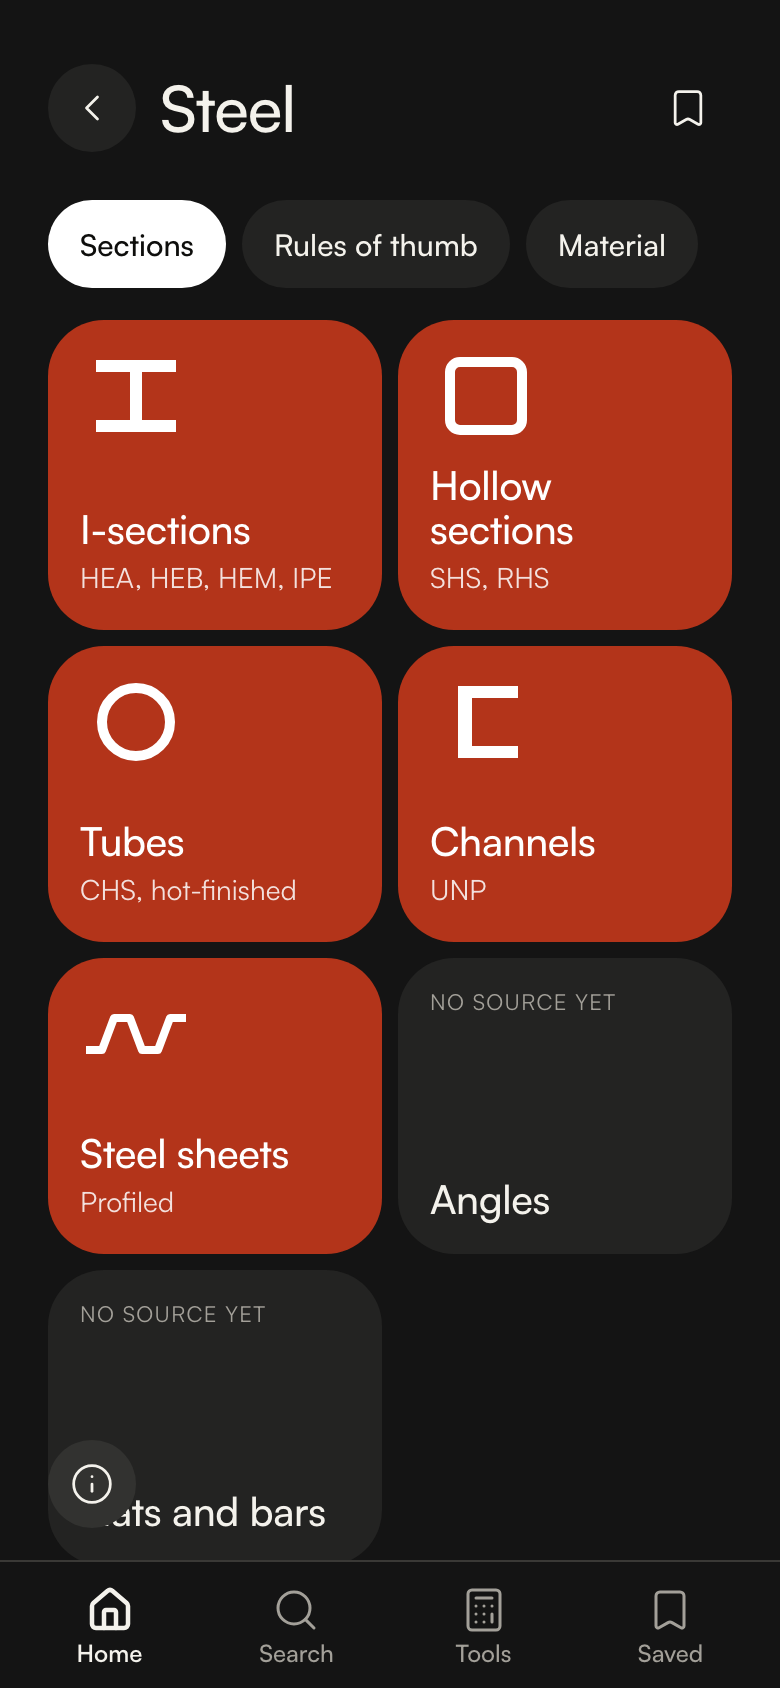
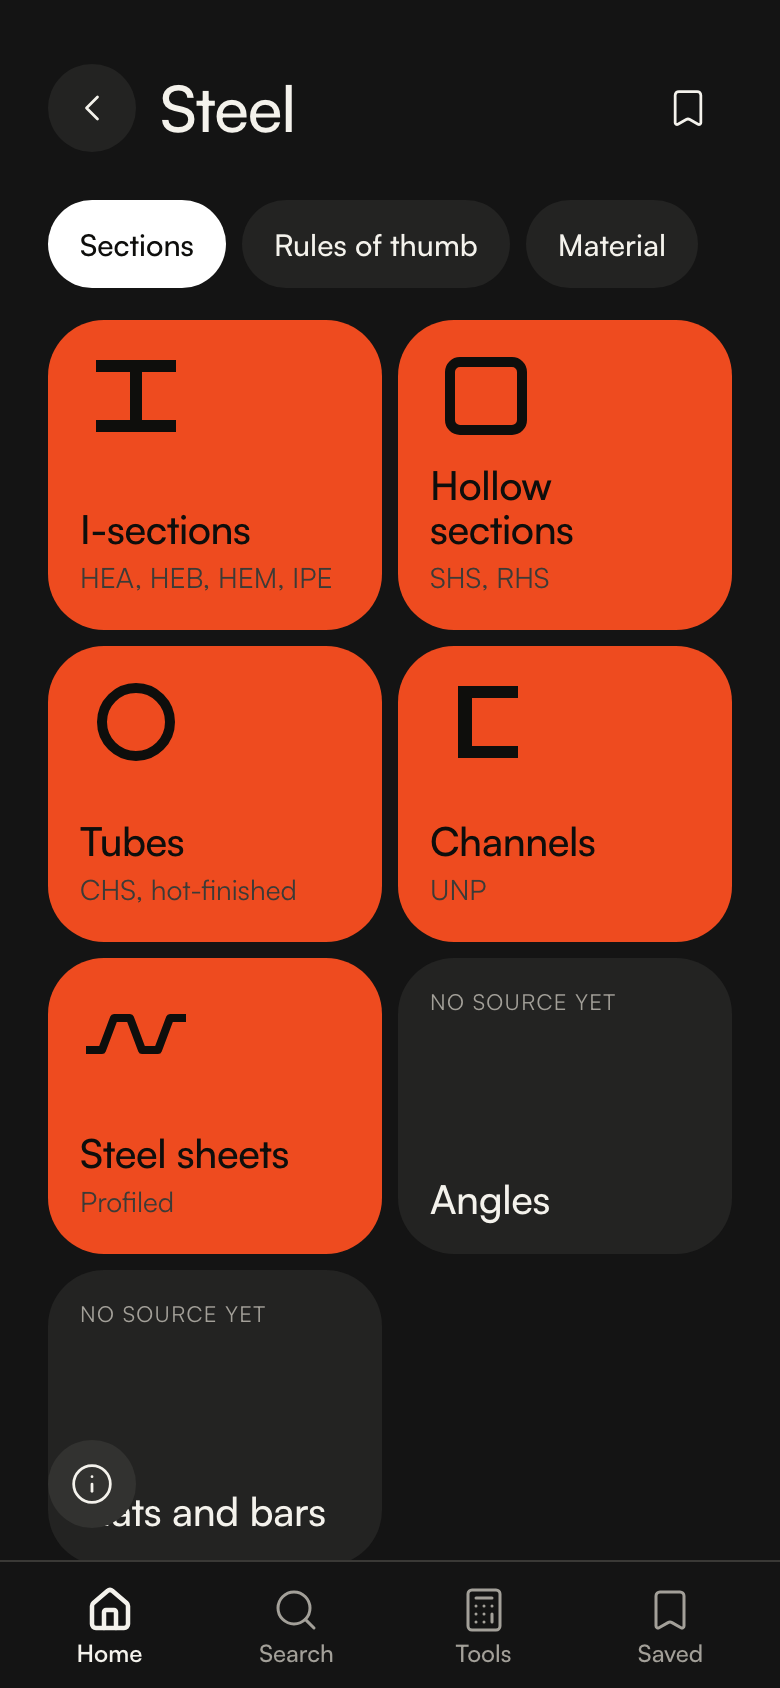
Staal: familietegels in --orange i.p.v. --orange-shade

diff --git a/src/routes/steel/+page.svelte b/src/routes/steel/+page.svelte
@@ -192,21 +192,20 @@
 		flex-direction: column;
 		gap: var(--space-1);
 	}
-	/* Material colour from Home: the orange sub-tiles of the structure tile. */
+	/* Material colour from Home: the orange of the structure tile. */
 	.tone-material {
-		background: var(--orange-shade);
-		color: var(--paper);
-	}
-	.tone-material .sub {
-		color: var(--paper);
-		opacity: 0.85;
-	}
-	a.tone-material:hover {
 		background: var(--orange);
 		color: var(--on-tile);
 	}
+	.tone-material .sub {
+		color: var(--on-tile-muted);
+	}
+	a.tone-material:hover {
+		background: var(--orange-shade);
+		color: var(--paper);
+	}
 	a.tone-material:hover .sub {
-		color: var(--on-tile);
+		color: var(--paper);
 	}
 	.tone-surface {
 		background: var(--surface);
